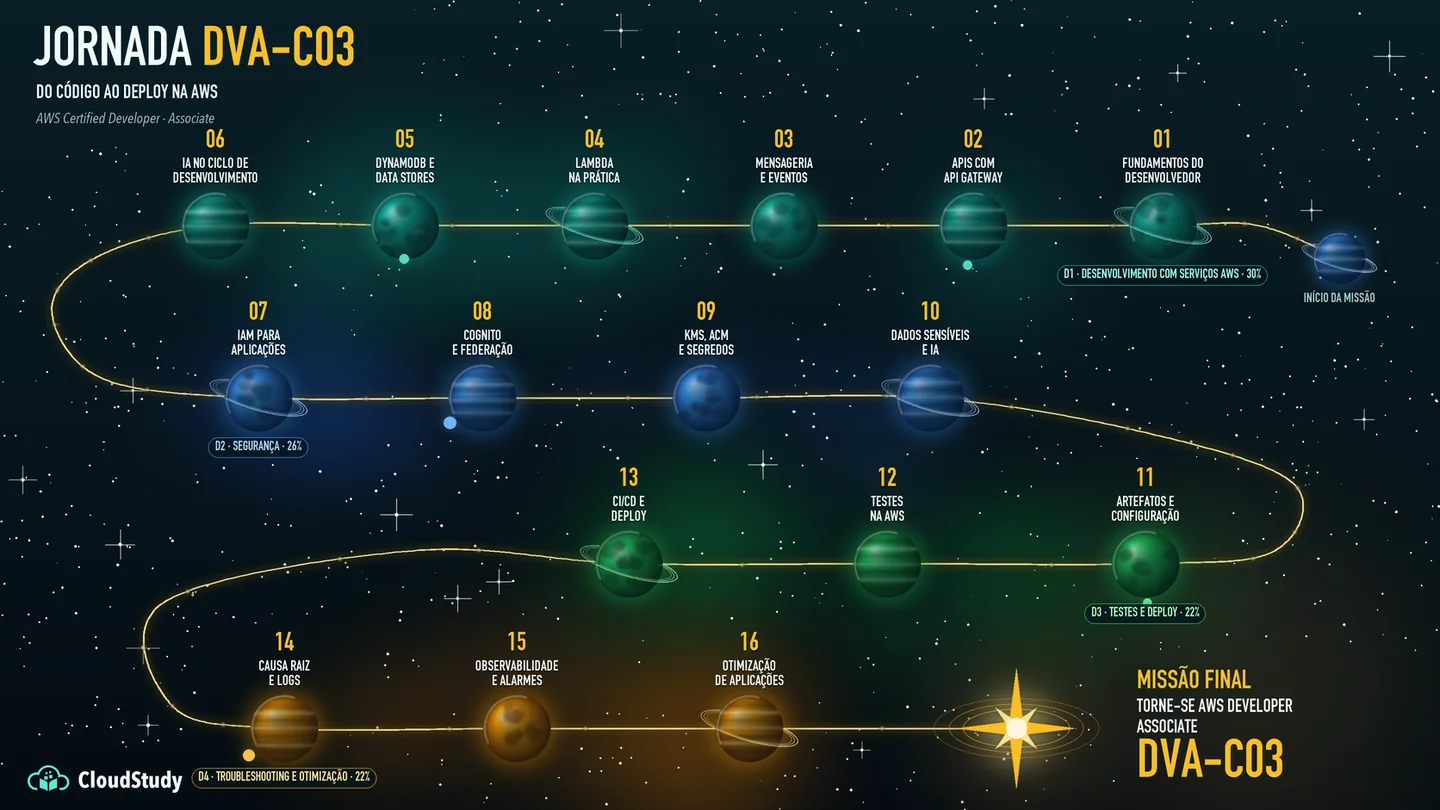
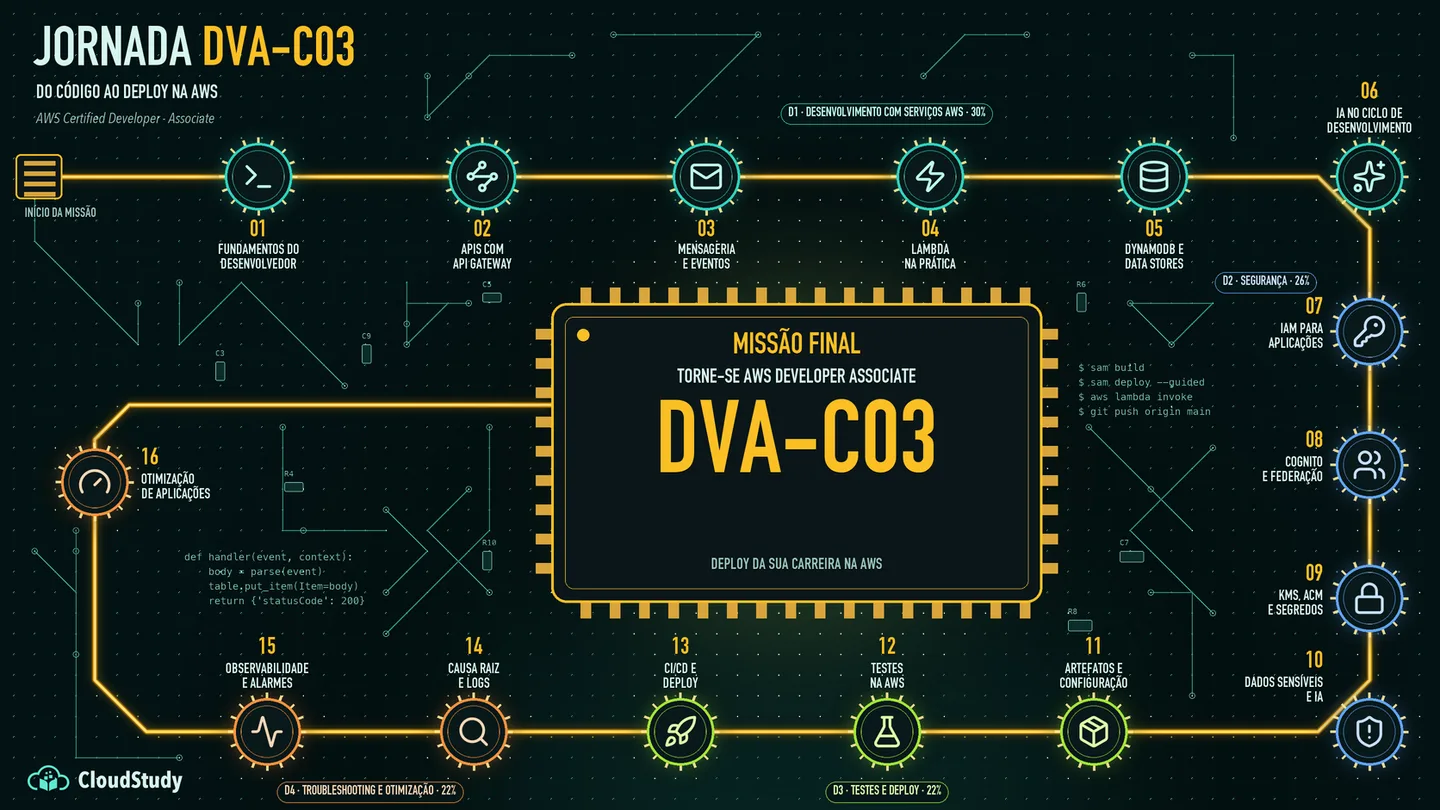
feat(launch): DEA-C01 a venda e numeros com 6 certificacoes
A landing nao mencionava a DEA-C01, somava 5 certificacoes (50 simulados,
+3.400 questoes) e ainda mostrava a arte antiga do mapa da DVA.

Resultado: bloco da DEA com selo, mapa e CTA, vitalicio de R$ 159,90 na secao
de precos e no hero, e numeros em 6 certificacoes, 60 simulados e +4.100
questoes (4.141 publicadas, contadas em banco local novo na 20261104_0060). O
bloco avisa que a prova nao tem versao em portugues. O mapa da DVA passa a ser
a placa de circuito do app, e a pilula do hero quebra entre grupos de codigos.

Risco: a DEA so existe no app depois do deploy da migration 20261104_0060 na
master do app. Este commit nao deve ser publicado antes disso.

Validacao: node --test tests/landing-tracking.test.cjs 17 passed; tsc limpo;
npm run build sem erro; pagina local conferida em 1280 px e no celular.

diff --git a/components/launch/launch-hero.tsx b/components/launch/launch-hero.tsx
@@ -38,9 +38,14 @@ const heroMaps = [
     src: "/launch-assets/map-sap.webp",
   },
   {
-    alt: "Mapa do tesouro com a trilha de módulos do Developer Associate, do início da jornada até a certificação.",
+    alt: "Mapa em forma de placa de circuito com os 16 módulos da trilha do Developer Associate, até a certificação.",
     code: "DVA-C03",
     src: "/launch-assets/map-dva.webp",
+  },
+  {
+    alt: "Mapa em forma de rio de dados com os 18 módulos da trilha do Data Engineer Associate, até a certificação.",
+    code: "DEA-C01",
+    src: "/launch-assets/map-dea.webp",
   },
 ] as const;
 
@@ -80,7 +85,12 @@ export function LaunchHero() {
       <div className="mx-auto flex max-w-6xl flex-col items-center px-5 pt-28 text-center sm:px-8 sm:pt-36 lg:pt-44">
         <p className="inline-flex items-center gap-2 rounded-full border border-[#7fb6ff]/35 px-3.5 py-2 font-mono text-[0.6875rem] font-bold uppercase tracking-[0.12em] text-[#7fb6ff] sm:text-xs sm:tracking-[0.14em]">
           <span aria-hidden="true" className="h-2 w-2 rounded-full bg-[#1479ff]" />
-          CLF-C02 · SAA-C03 · AIF-C01 · SAP-C02 · DVA-C03
+          {/* Seis códigos não cabem numa linha no celular; quebrar entre os grupos evita um "·" solto. */}
+          <span>
+            <span className="whitespace-nowrap">CLF-C02 · SAA-C03 · AIF-C01</span>{" "}
+            <span className="hidden sm:inline">· </span>
+            <span className="whitespace-nowrap">SAP-C02 · DVA-C03 · DEA-C01</span>
+          </span>
         </p>
 
         <h1 id="launch-hero-title" className="mt-6 max-w-4xl text-balance font-display text-[2.4rem] font-extrabold leading-[1.04] tracking-[-0.055em] text-white sm:text-6xl lg:text-[4.25rem]">

diff --git a/components/launch/certification-paths-section.tsx b/components/launch/certification-paths-section.tsx
@@ -14,6 +14,8 @@ type CertificationPath = {
   code: string;
   description: string;
   map: string;
+  /** Aviso que o candidato precisa saber antes de escolher a trilha. */
+  note?: string;
   title: string;
 };
 
@@ -53,6 +55,15 @@ const certificationPaths: readonly CertificationPath[] = [
     map: "/launch-assets/map-dva.webp",
     title: "AWS Certified Developer – Associate",
   },
+  {
+    badge: "/launch-assets/badge-dea.webp",
+    code: "DEA-C01",
+    description: "Construa pipelines na AWS, da ingestão à governança: Kinesis, Glue, Redshift, Lake Formation e operação de dados.",
+    map: "/launch-assets/map-dea.webp",
+    // O guia oficial da DEA-C01 não tem versão em português (conferido em 04/11/2026).
+    note: "Conteúdo em português, com os termos da prova em inglês. A prova não tem versão em português.",
+    title: "AWS Certified Data Engineer – Associate",
+  },
 ] as const;
 
 function CertificationPathBlock({ certification, reversed }: { certification: CertificationPath; reversed: boolean }) {
@@ -75,6 +86,9 @@ function CertificationPathBlock({ certification, reversed }: { certification: Ce
           </div>
         </div>
         <p className="mx-auto mt-5 max-w-md text-center text-sm leading-7 text-slate-600 sm:mx-0 sm:text-left sm:text-base">{certification.description}</p>
+        {certification.note ? (
+          <p className="mx-auto mt-3 max-w-md text-center text-sm font-semibold leading-6 text-[#0b2a6f] sm:mx-0 sm:text-left">{certification.note}</p>
+        ) : null}
       </div>
 
       <figure

diff --git a/components/launch/launch-numbers.tsx b/components/launch/launch-numbers.tsx
@@ -1,13 +1,13 @@
-// Totais gerais (as 5 certificações publicadas somadas). Base: banco de dev migrado até
-// 20261103_0055 em 02/11/2026 (simulation_sets full_exam e questions publicadas): CLF 10/720,
-// SAA 10/705, AIF 10/665, SAP 10/750, DVA 10/651 = 50 provas completas e 3.491 questões. A SAP
-// usa provas de 75 questões, por isso o rótulo não cita 65. O código NÃO prova o que está
-// publicado em produção: a DVA só vale depois do deploy da 0055 na master do app; confirmar o
-// catálogo da API antes de anúncios.
+// Totais gerais (as 6 certificações publicadas somadas). Base: banco local novo, migrado até
+// 20261104_0060 e com seed, em 04/11/2026 (simulation_sets full_exam e questions publicadas):
+// CLF 10/720, SAA 10/705, AIF 10/665, SAP 10/750, DVA 10/651, DEA 10/650 = 60 provas completas e
+// 4.141 questões. A SAP usa provas de 75 questões, por isso o rótulo não cita 65. O código NÃO
+// prova o que está publicado em produção: a DEA só vale depois do deploy da 0060 na master do
+// app; confirmar o catálogo da API antes de anúncios.
 const numbers = [
-  { label: "certificações AWS", value: "5" },
-  { label: "simulados completos no formato da prova", value: "50" },
-  { label: "questões com explicação", value: "+3.400" },
+  { label: "certificações AWS", value: "6" },
+  { label: "simulados completos no formato da prova", value: "60" },
+  { label: "questões com explicação", value: "+4.100" },
   { label: "para começar, sem cartão", value: "R$ 0" },
 ] as const;
 

diff --git a/components/launch/pricing-section.tsx b/components/launch/pricing-section.tsx
@@ -7,12 +7,12 @@ const freeFeatures = [
   "Aulas selecionadas da certificação",
   "12 flashcards para fixar o conteúdo",
   "Diagnóstico de 10 questões",
-  "Escolha CLF-C02, SAA-C03, AIF-C01, SAP-C02 ou DVA-C03",
+  "Escolha CLF-C02, SAA-C03, AIF-C01, SAP-C02, DVA-C03 ou DEA-C01",
 ] as const;
 
 const allAccessFeatures = [
   "Trilhas, aulas, simulados, flashcards e desempenho",
-  "As cinco certificações e as próximas adições ao catálogo",
+  "As seis certificações e as próximas adições ao catálogo",
   "Cartão com renovação mensal ou Pix de 30 dias, sem renovação automática",
   "Cancele quando quiser",
 ] as const;
@@ -23,6 +23,7 @@ const lifetimeOffers = [
   { code: "SAA-C03", name: "Solutions Architect", cents: LIFETIME_PRICES_CENTS["SAA-C03"] },
   { code: "SAP-C02", name: "Solutions Architect Professional", cents: LIFETIME_PRICES_CENTS["SAP-C02"] },
   { code: "DVA-C03", name: "Developer Associate", cents: LIFETIME_PRICES_CENTS["DVA-C03"] },
+  { code: "DEA-C01", name: "Data Engineer Associate", cents: LIFETIME_PRICES_CENTS["DEA-C01"] },
 ] as const;
 
 const cardBase = "relative flex flex-col rounded-3xl border-2 bg-white p-6 sm:p-7";

diff --git a/lib/launch-pricing.ts b/lib/launch-pricing.ts
@@ -1,7 +1,7 @@
 // Valores públicos exibidos na landing.
 //
 // Fonte de verdade: catálogo comercial do backend (System_Dashboard,
-// api/alembic: 20260928_0036, 20260930_0038 e 20261030_0048 e 20261103_0054). A landing não consulta o backend,
+// api/alembic: 20260928_0036, 20260930_0038, 20261030_0048, 20261103_0054 e 20261104_0059). A landing não consulta o backend,
 // então qualquer mudança de preço no catálogo precisa ser refletida aqui.
 // O teste em tests/ fixa estes valores para que a divergência seja notada.
 
@@ -13,6 +13,7 @@ export const LIFETIME_PRICES_CENTS = {
   "SAA-C03": 15990,
   "SAP-C02": 15990,
   "DVA-C03": 15990,
+  "DEA-C01": 15990,
 } as const;
 
 export function formatBrl(cents: number): string {

diff --git a/components/launch/trust-section.tsx b/components/launch/trust-section.tsx
@@ -1,7 +1,7 @@
 import { Check } from "lucide-react";
 
 const productFacts = [
-  "Trilhas para cinco certificações AWS",
+  "Trilhas para seis certificações AWS",
   "Conteúdo dividido em módulos e aulas",
   "Progresso da trilha visível na plataforma",
   "Revisão e prática reunidas no plano de estudo",
